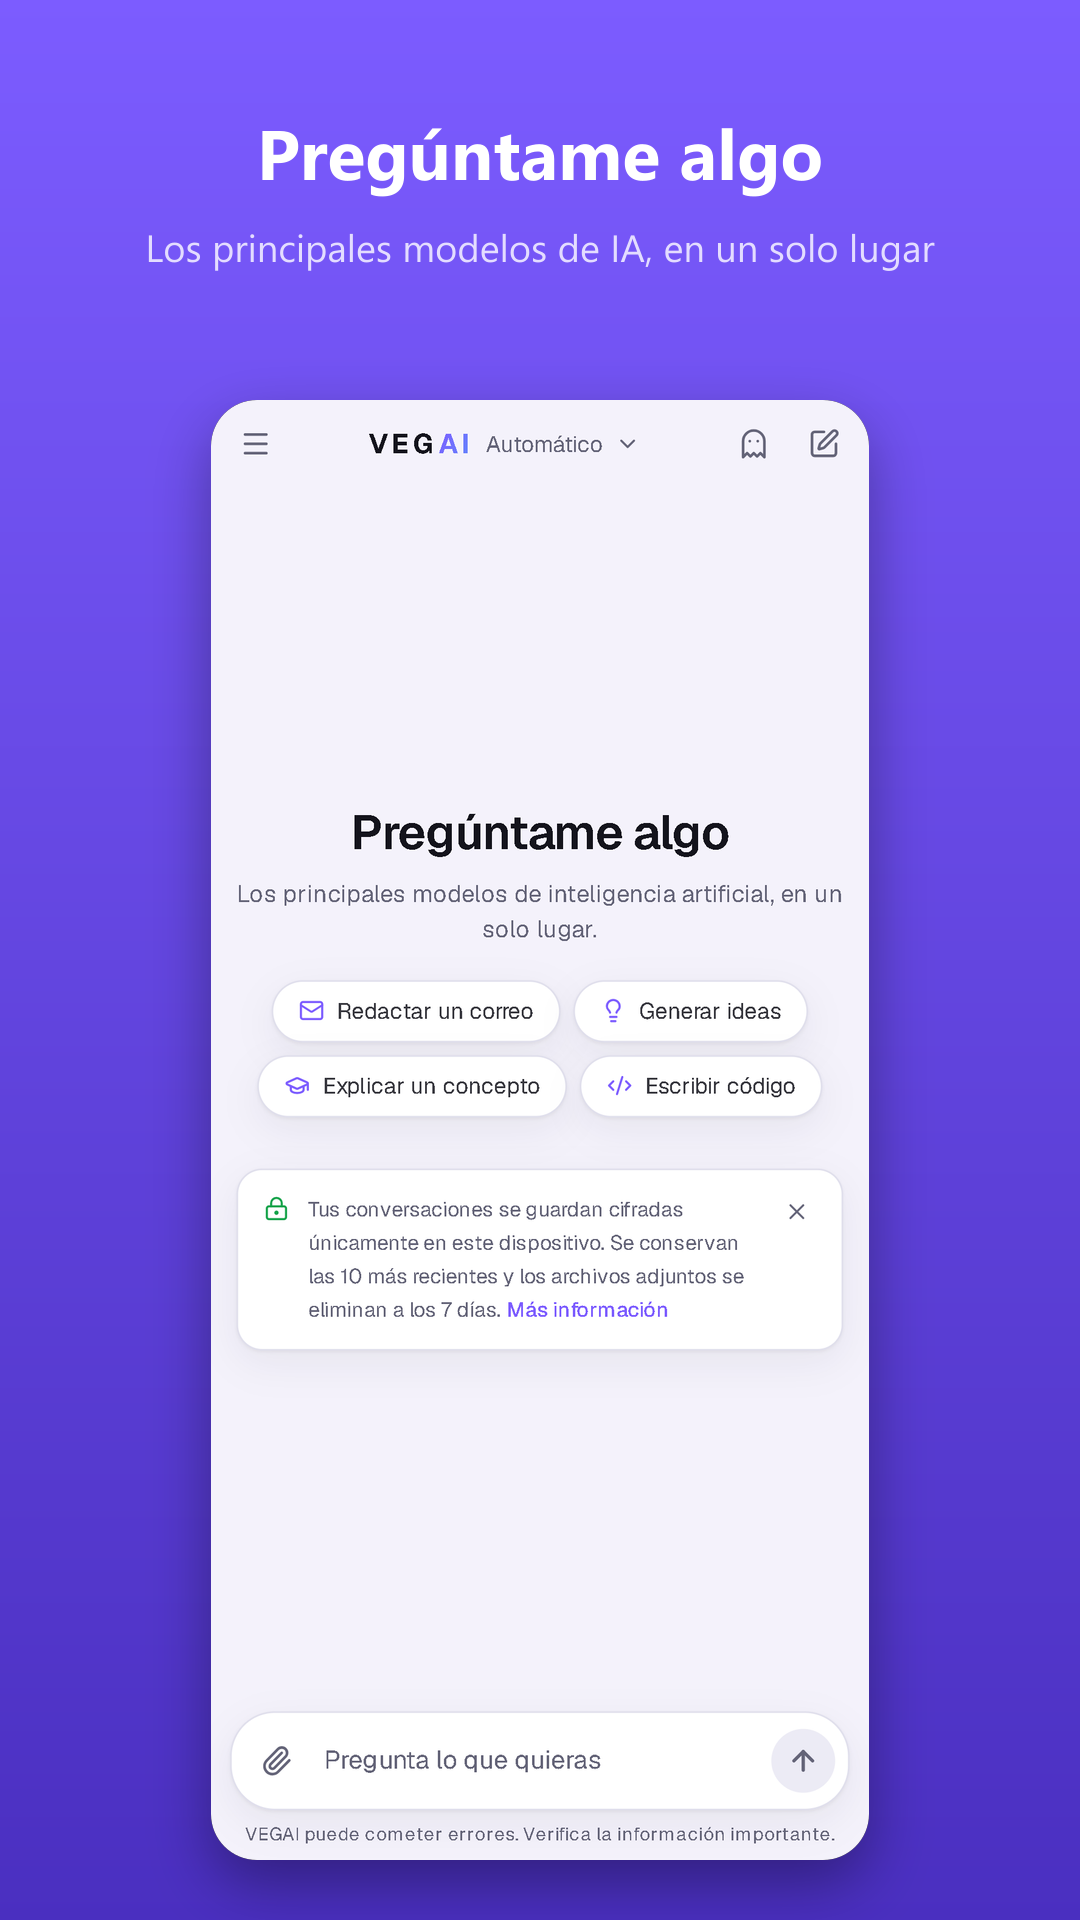
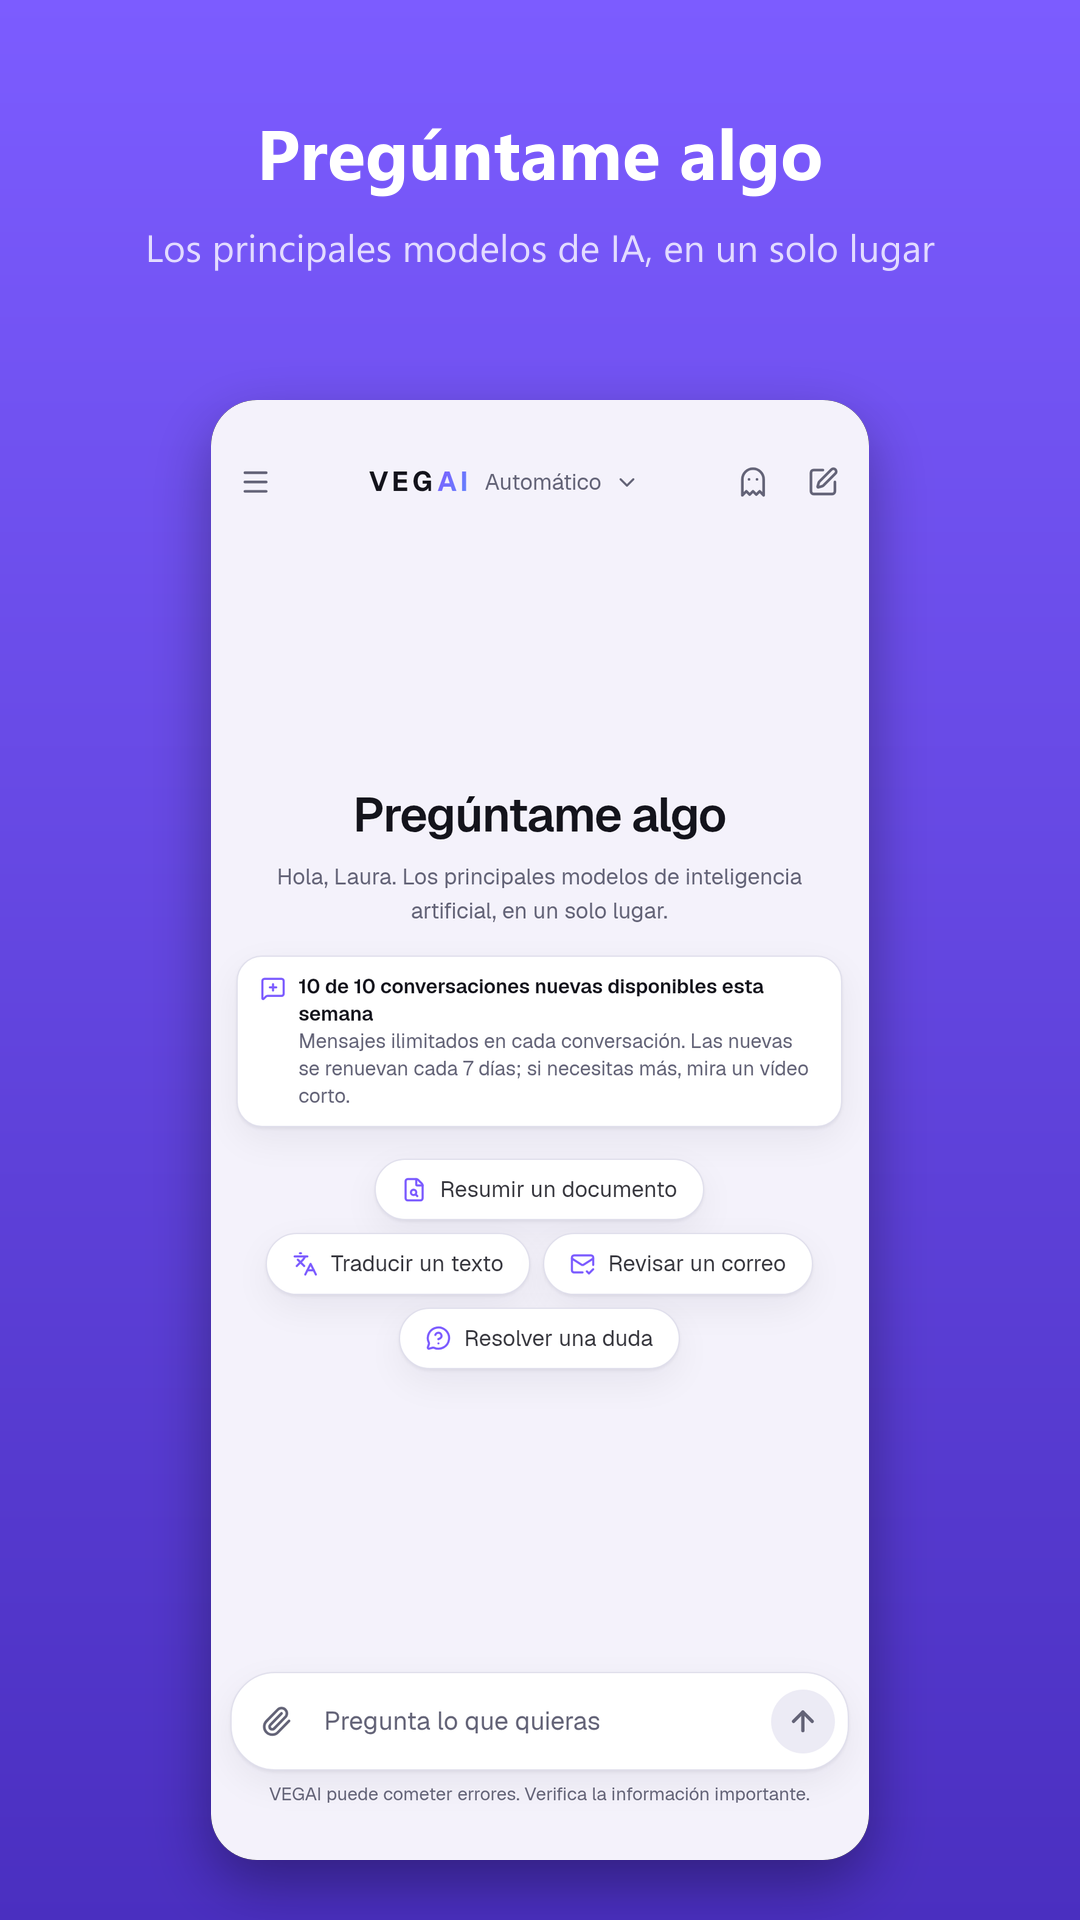
Capturas nuevas (tiempo, noticias, privacidad) y versión 1.0.4

diff --git a/README.md b/README.md
@@ -9,7 +9,7 @@
 <h3 align="center">Una sola app. Los mejores modelos de IA. Tus datos, solo en tu dispositivo.</h3>
 
 <p align="center">
-  <img src="https://img.shields.io/badge/versi%C3%B3n-1.0.3-5b3fd9?style=for-the-badge" alt="Versión 1.0.0">
+  <img src="https://img.shields.io/badge/versi%C3%B3n-1.0.4-5b3fd9?style=for-the-badge" alt="Versión 1.0.0">
   <img src="https://img.shields.io/badge/Android-7.0%2B-3ddc84?style=for-the-badge&logo=android&logoColor=white" alt="Android 7.0+">
   <img src="https://img.shields.io/badge/Windows-10%20%7C%2011-0078d4?style=for-the-badge&logo=windows&logoColor=white" alt="Windows 10/11">
 </p>
@@ -48,9 +48,13 @@ Eso es **VEGAI**: un asistente de IA que se abre en un segundo, te llama por tu 
 
 ## 📱 Así se ve
 
-| Pregúntame algo | Lee tus documentos | Modo oscuro | Tus datos, bajo control |
-|---|---|---|---|
-| <img src="assets/01-inicio.png" width="200"> | <img src="assets/02-documentos.png" width="200"> | <img src="assets/03-oscuro.png" width="200"> | <img src="assets/04-privacidad.png" width="200"> |
+| Pregúntame algo | El tiempo, al minuto | Las noticias de hoy |
+|---|---|---|
+| <img src="assets/01-inicio.png" width="240"> | <img src="assets/02-tiempo.png" width="240"> | <img src="assets/03-noticias.png" width="240"> |
+
+| Lee tus documentos | Modo oscuro | Tus datos, bajo control |
+|---|---|---|
+| <img src="assets/04-documentos.png" width="240"> | <img src="assets/05-oscuro.png" width="240"> | <img src="assets/06-privacidad.png" width="240"> |
 
 ## 💡 Para qué la vas a usar
 
